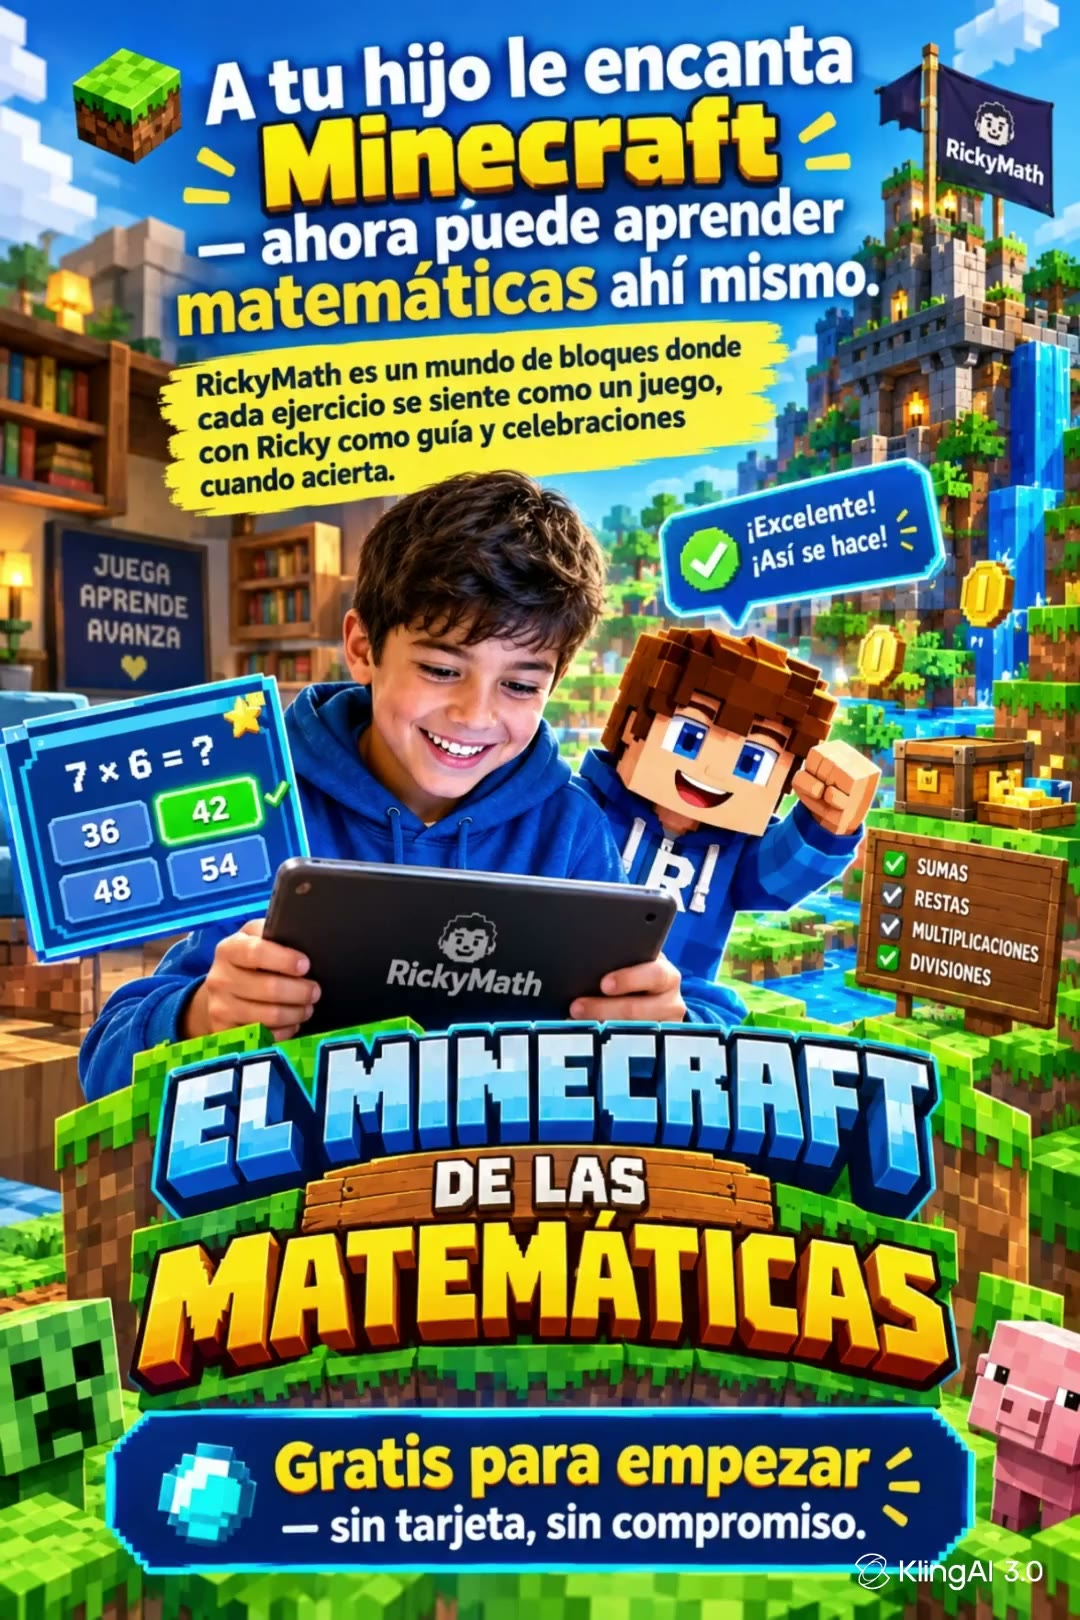
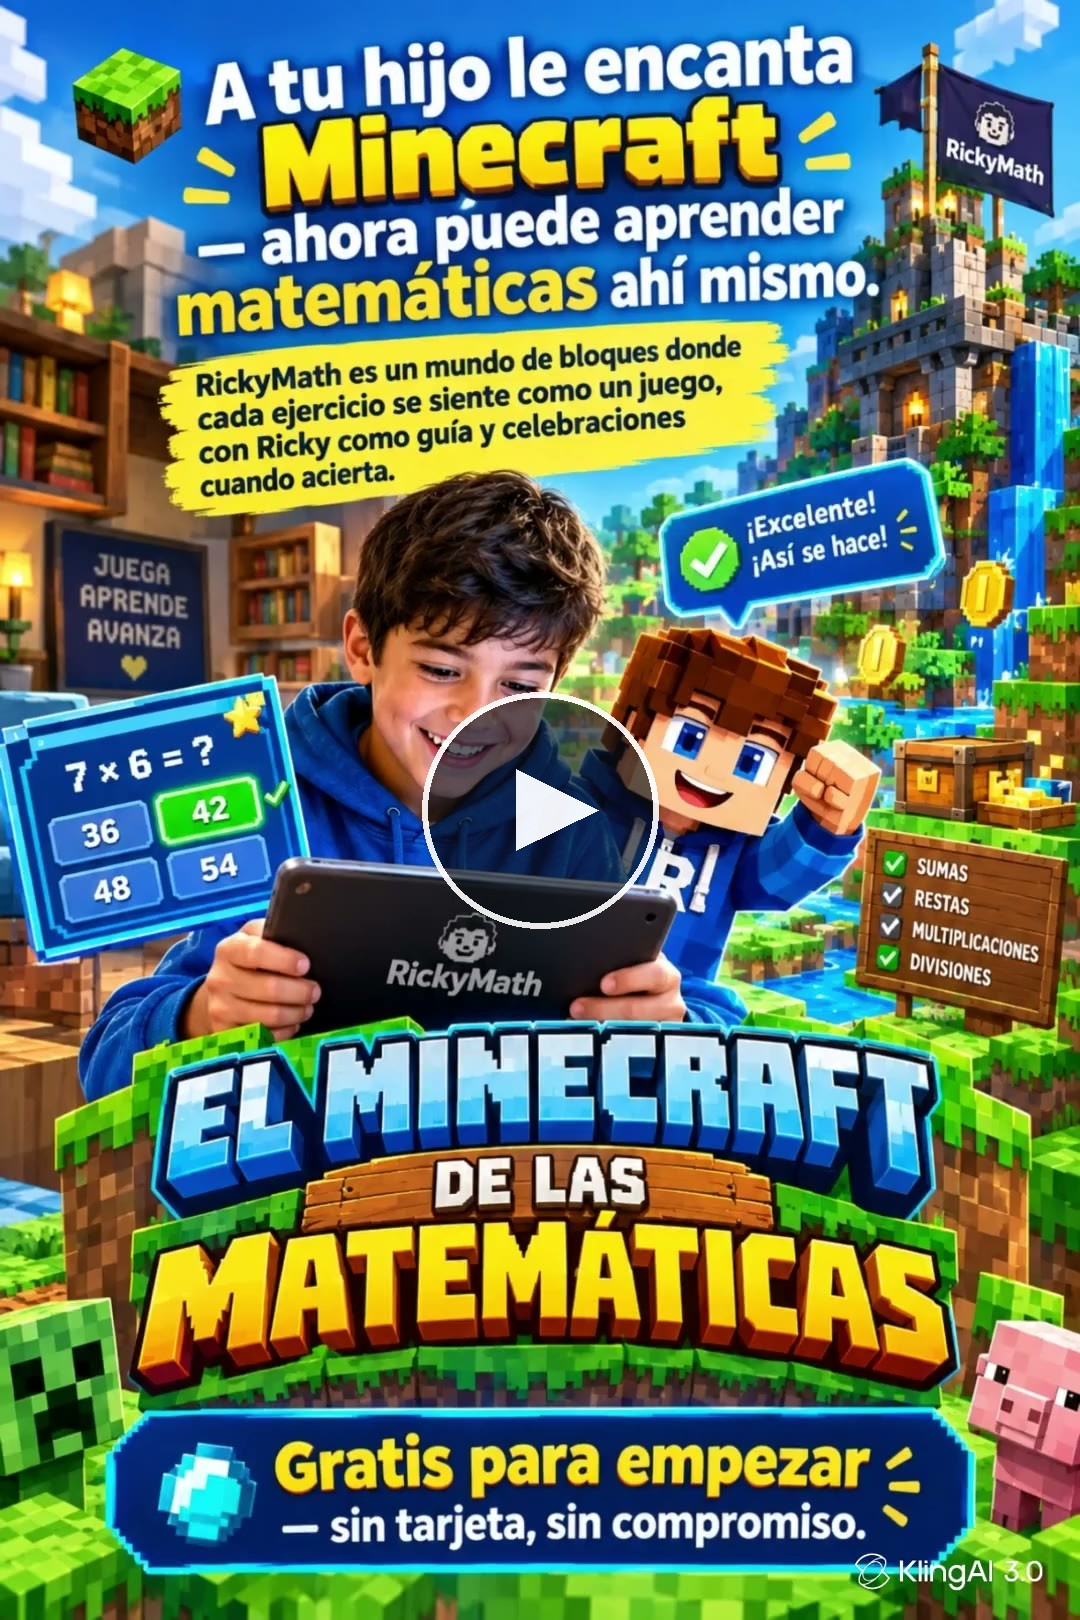
feat: botón de play quemado en la miniatura + autoplay mudo en /video-promo
WhatsApp no le agrega ícono de play a miniaturas de páginas web comunes
(solo a plataformas que tiene hardcodeadas) — así que el botón de play
ahora está dibujado directamente sobre la imagen, se ve igual en
cualquier app donde se comparta el link.

El video arranca solo al cargar la página (autoplay), mudo como exigen
los navegadores para permitirlo, con un botón "Activar sonido" visible
mientras no se le haya dado — desaparece solo apenas el usuario le da
play al audio.

Claude-Session: https://claude.ai/code/session_01WPaSXqzuEeLgqhX1m5pit6

Changed region(s): [[0.3667, 0.4012, 0.6111, 0.5864]]

diff --git a/src/app/video-promo/VideoConCta.tsx b/src/app/video-promo/VideoConCta.tsx
@@ -11,14 +11,26 @@ const CTA_DESDE_SEGUNDO = 8
 export default function VideoConCta() {
   const videoRef = useRef<HTMLVideoElement>(null)
   const [mostrarCta, setMostrarCta] = useState(false)
+  const [silenciado, setSilenciado] = useState(true)
 
   useEffect(() => {
     const video = videoRef.current
     if (!video) return
     const onTimeUpdate = () => setMostrarCta(video.currentTime >= CTA_DESDE_SEGUNDO)
+    const onVolumeChange = () => setSilenciado(video.muted)
     video.addEventListener('timeupdate', onTimeUpdate)
-    return () => video.removeEventListener('timeupdate', onTimeUpdate)
+    video.addEventListener('volumechange', onVolumeChange)
+    return () => {
+      video.removeEventListener('timeupdate', onTimeUpdate)
+      video.removeEventListener('volumechange', onVolumeChange)
+    }
   }, [])
+
+  function activarSonido() {
+    const video = videoRef.current
+    if (!video) return
+    video.muted = false
+  }
 
   return (
     <div style={{
@@ -30,11 +42,28 @@ export default function VideoConCta() {
         ref={videoRef}
         controls
         playsInline
+        autoPlay
+        muted
         poster="/video-poster.jpg"
         style={{ display: 'block', width: '100%', height: 'auto' }}
       >
         <source src="/videos/anuncio.mp4" type="video/mp4" />
       </video>
+
+      {silenciado && (
+        <button
+          onClick={activarSonido}
+          style={{
+            position: 'absolute', top: '0.85rem', right: '0.85rem',
+            display: 'inline-flex', alignItems: 'center', gap: '0.35rem',
+            padding: '0.45rem 0.8rem', borderRadius: 999, fontWeight: 700, fontSize: '0.8rem',
+            background: 'rgba(15, 23, 42, 0.65)', color: 'white', border: '1px solid rgba(255,255,255,0.35)',
+            cursor: 'pointer', backdropFilter: 'blur(4px)',
+          }}
+        >
+          🔇 Activar sonido
+        </button>
+      )}
 
       <Link
         href="/signup"
